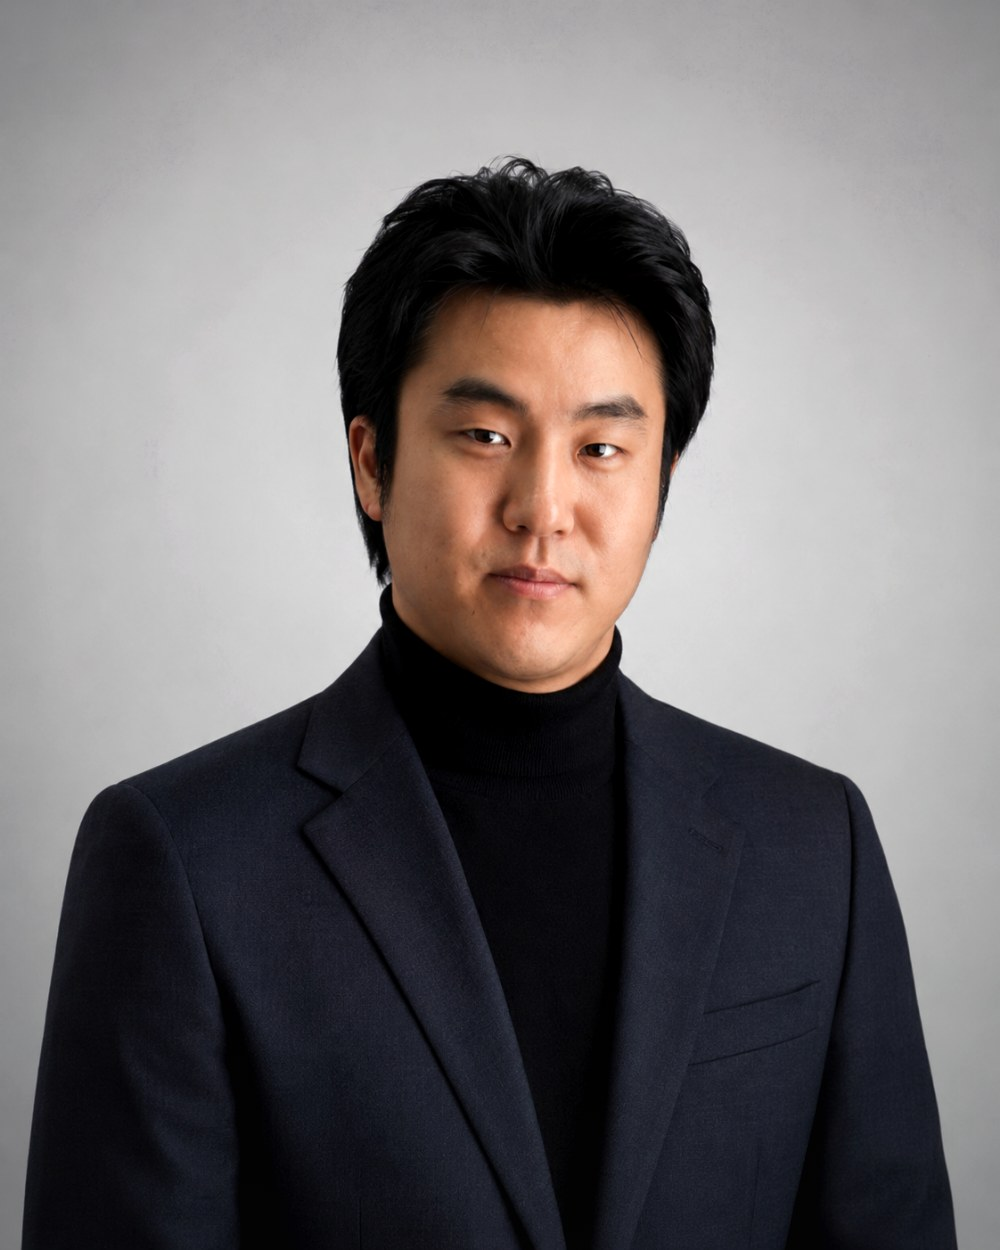
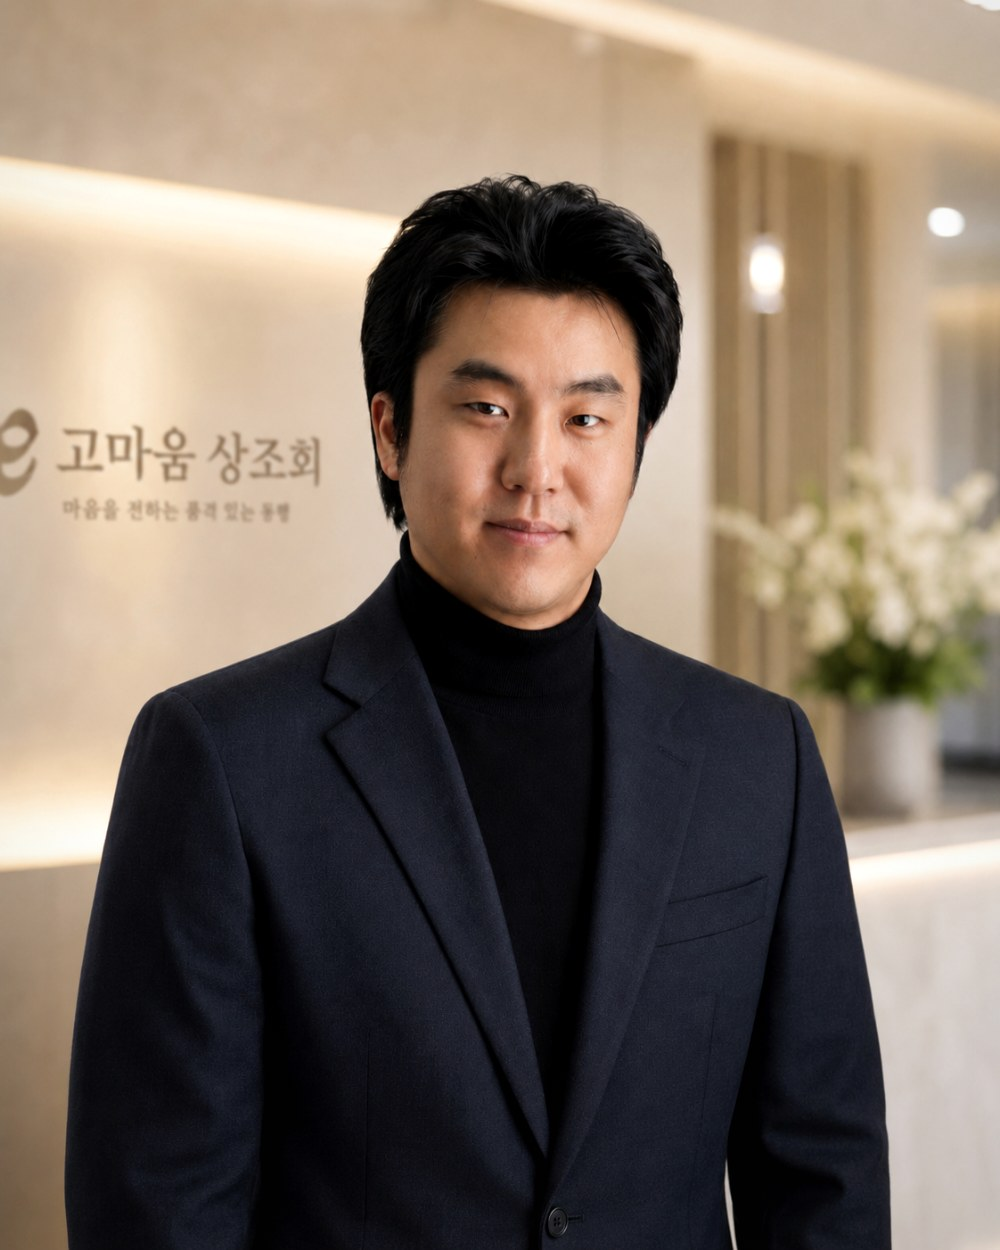
대표 사진 교체(로비 배경), 붓글씨 서명
- 새 사진: 4:5 자르기, 대비 소폭, 옅은 비네트. 배경은 원본 그대로
- 서명: Nanum Brush Script로 '김병호', 살짝 기울여 글 끝에

Claude-Session: https://claude.ai/code/session_01GkdHr9oZgWkji8dZFs8UMJ

diff --git a/sangjo/yaksok.html b/sangjo/yaksok.html
@@ -15,7 +15,7 @@
 <meta property="og:image" content="https://soonryu74.github.io/assets/img/daepyo.jpg">
 <link rel="preconnect" href="https://fonts.googleapis.com">
 <link rel="preconnect" href="https://fonts.gstatic.com" crossorigin>
-<link rel="stylesheet" href="https://fonts.googleapis.com/css2?family=Noto+Serif+KR:wght@400;600;700&family=IBM+Plex+Mono:wght@400;500;600&display=swap">
+<link rel="stylesheet" href="https://fonts.googleapis.com/css2?family=Noto+Serif+KR:wght@400;600;700&family=IBM+Plex+Mono:wght@400;500;600&family=Nanum+Brush+Script&display=swap">
 <link rel="stylesheet" href="https://cdn.jsdelivr.net/gh/orioncactus/pretendard@v1.3.9/dist/web/variable/pretendardvariable-dynamic-subset.min.css">
 <link rel="stylesheet" href="../assets/css/gomaum.css">
 <style>
@@ -30,7 +30,8 @@
 .yk-sign { display: flex; align-items: flex-end; gap: 18px; margin-top: 8px; }
 .yk-sign .who { font-family: var(--f-body); font-size: 0.98rem; color: var(--ink-2); line-height: 1.6; }
 .yk-sign .who b { display: block; font-size: 1.15rem; color: var(--ink); }
-.yk-sign .sig { width: 150px; height: 64px; border-bottom: 1px solid var(--line-strong); display: flex; align-items: center; justify-content: center; color: var(--ink-3); font-size: 0.8rem; }
+.yk-sign .sig { width: 170px; height: 72px; display: flex; align-items: flex-end; justify-content: center; }
+.yk-sign .sig-hand { font-family: "Nanum Brush Script", "Nanum Pen Script", cursive; font-size: 58px; line-height: 1; color: #1f2320; transform: rotate(-5deg) translateY(4px); letter-spacing: -0.02em; opacity: 0.92; }
 .yk-sign .sig img { max-width: 100%; max-height: 100%; }
 .yk-cap { margin-top: 12px; font-size: 0.95rem; color: var(--ink-2); line-height: 1.6; }
 .yk-cap b { font-family: var(--f-display); font-size: 1.15rem; color: var(--ink); margin-right: 8px; }
@@ -82,7 +83,7 @@
       <p class="last">사랑하는 이와 이별하는 순간,<br>함께하겠습니다.</p>
       <div class="yk-sign">
         <div class="who">고마움 상조회 대표<b>김병호</b></div>
-        <div class="sig" id="sig">서명 자리</div>
+        <div class="sig" id="sig" aria-label="김병호 서명"><span class="sig-hand">김병호</span></div>
       </div>
     </div>
   </div>
